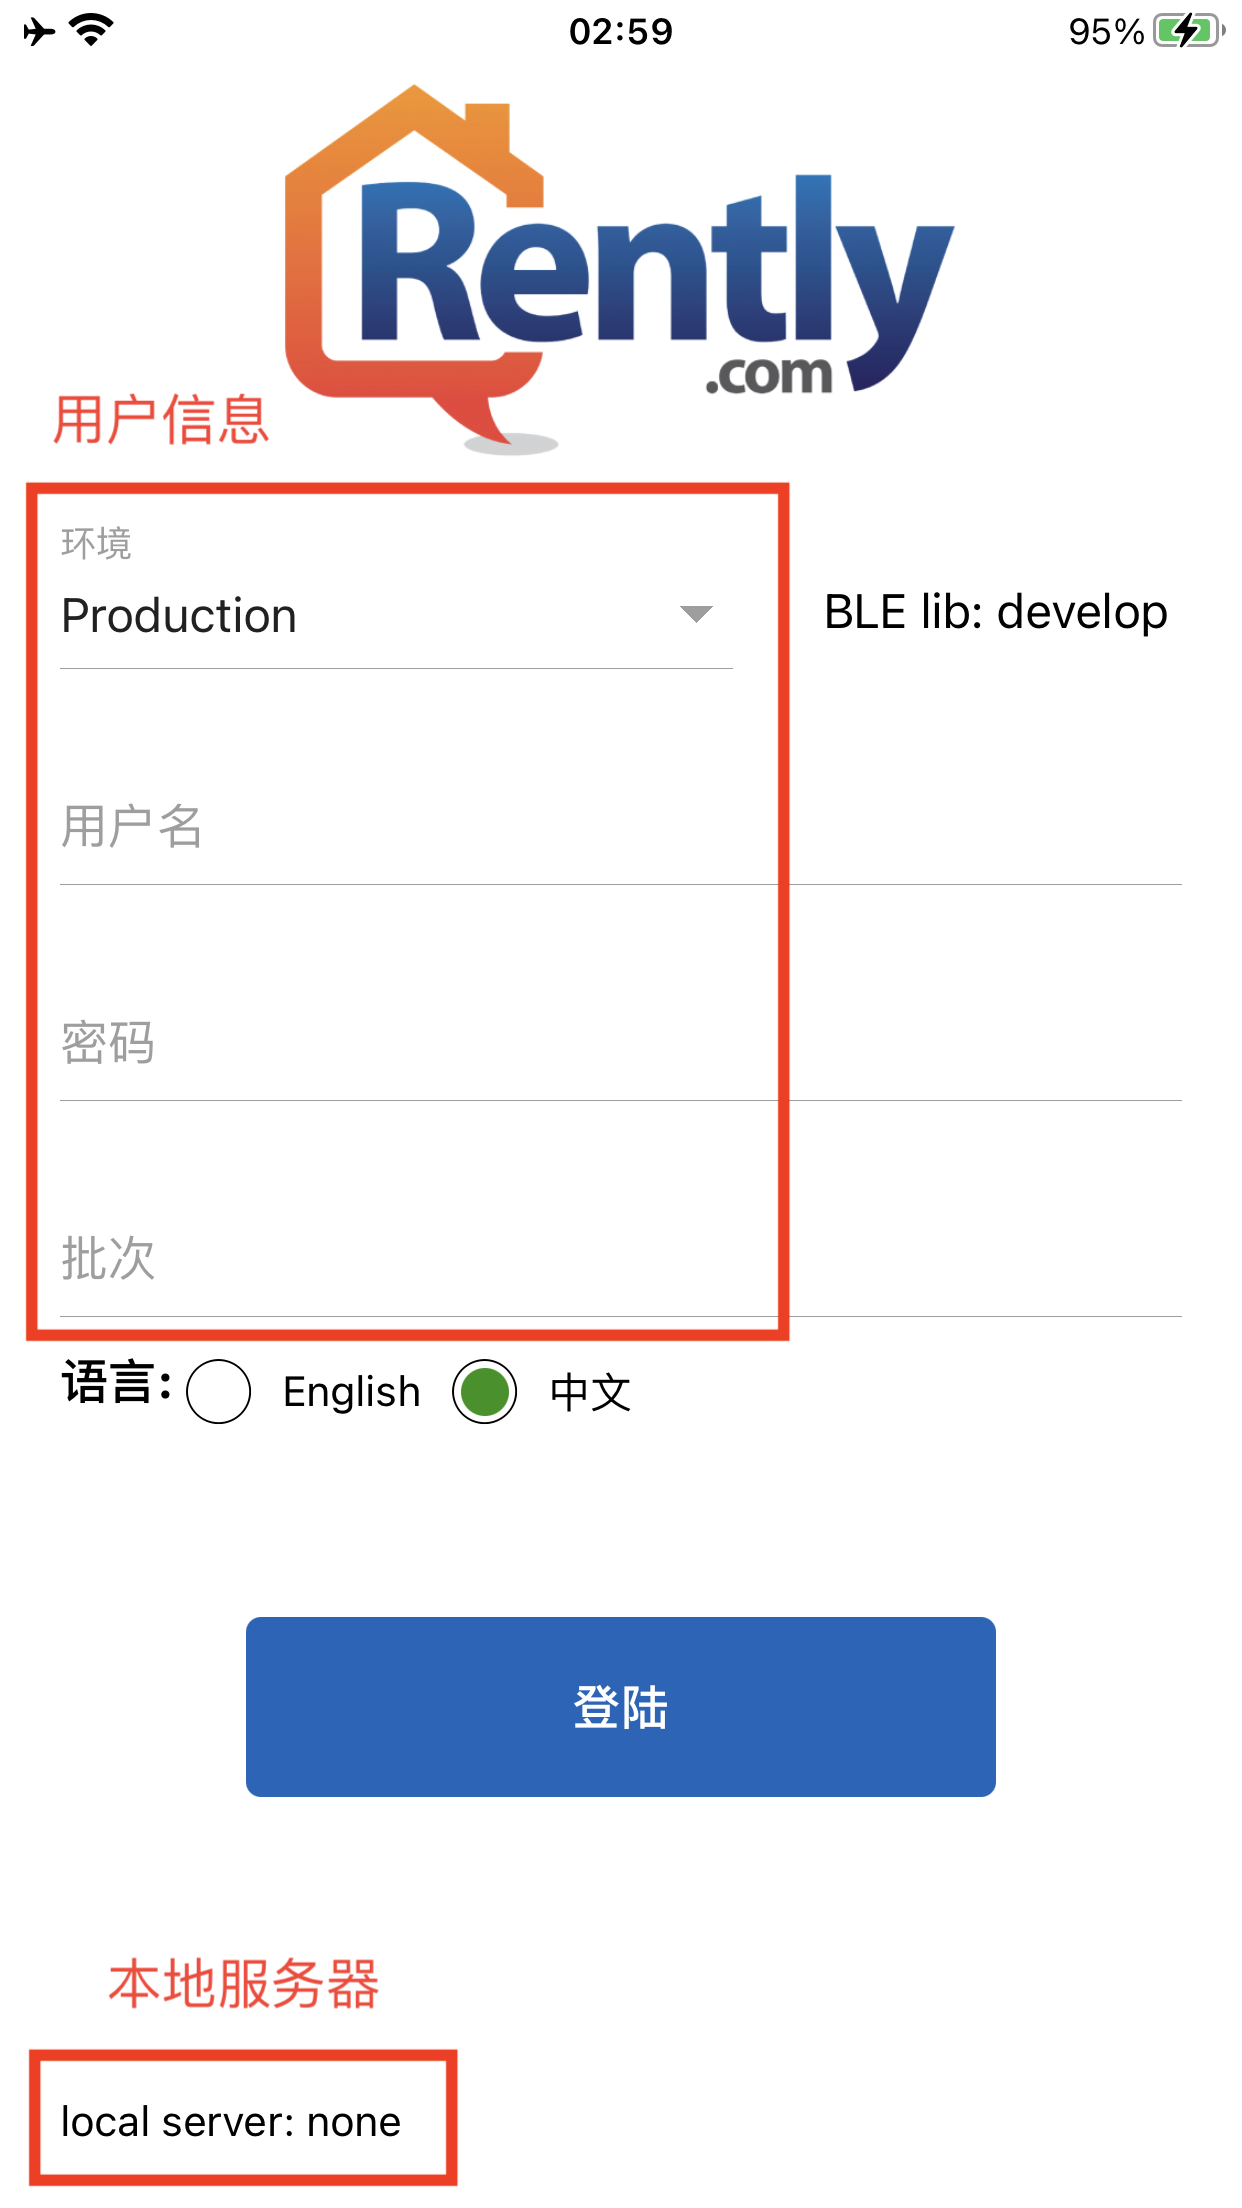
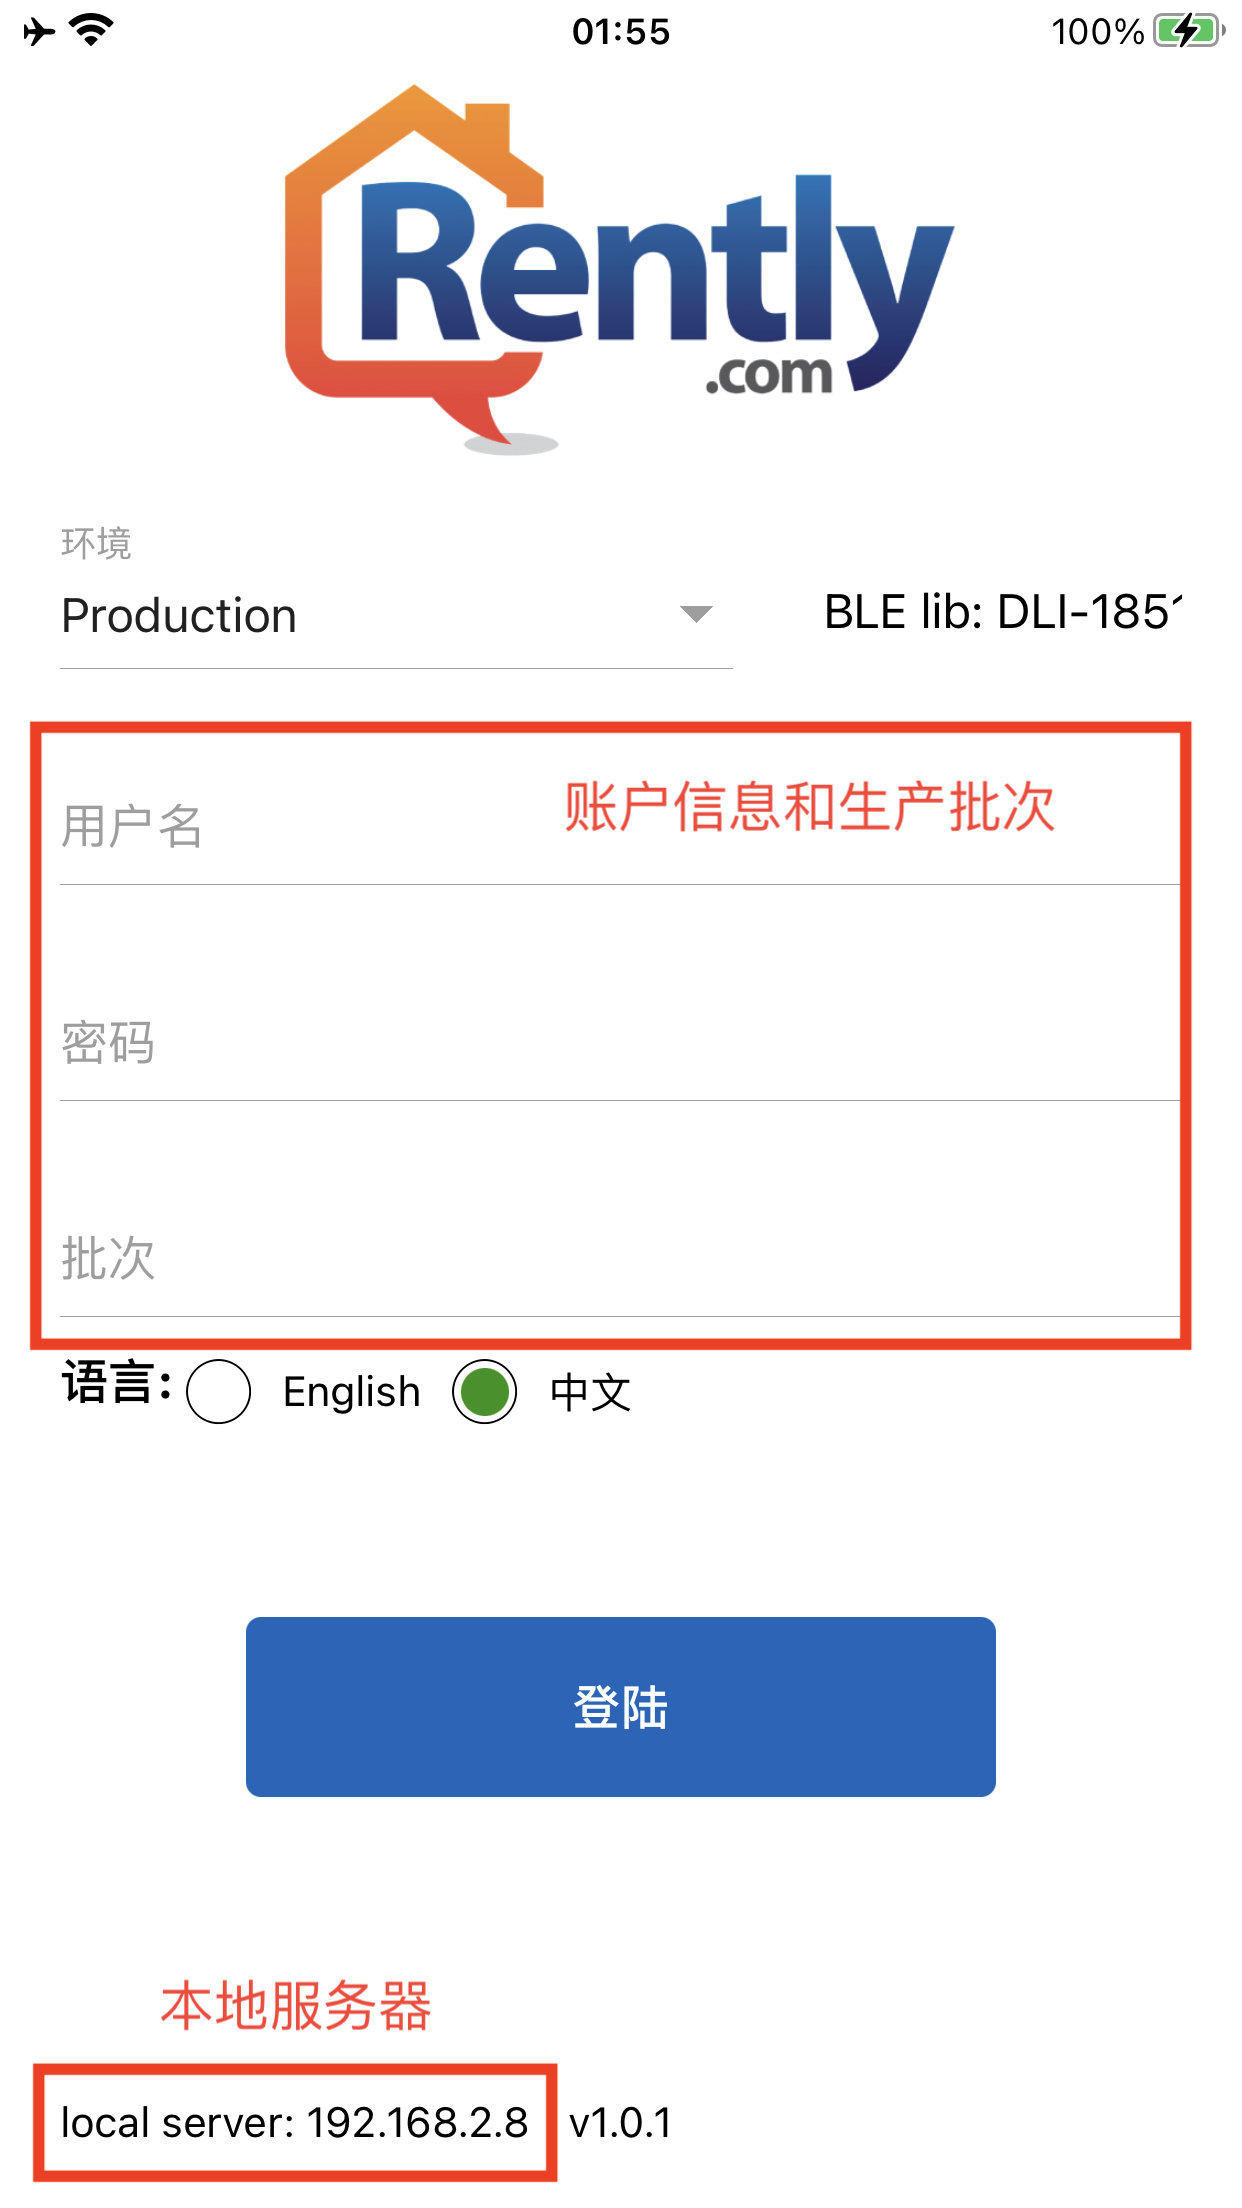
integrate and fix factory testing command update user instruction fix android text float fix mdns detection

diff --git a/app/store/sagas/testSaga.js b/app/store/sagas/testSaga.js
@@ -1,4 +1,3 @@
-import axios from 'axios';
 import { put, select } from 'redux-saga/effects';
 
 import {
@@ -37,7 +36,7 @@ import {
   clearTest,
 } from '../actions/testActions';
 import API from '../../services/API';
-import { delay, parseTimeStamp } from '../../utils';
+import { delay, parseTimeStamp, postToLocalServer } from '../../utils';
 import { strings } from '../../utils/i18n';
 import { SUCCESS } from '../actions/types';
 
@@ -46,9 +45,10 @@ import { SUCCESS } from '../actions/types';
 
 export function* verifyBroadcastInfoAsync({ payload: lockObj }) {
   const { lockMac, modelNum, hardwareVer, firmwareVer, rssi, battery } = lockObj;
-  const { criteria } = yield select(state => state.locks);
+  const { criteria, libraryObj } = yield select(state => state.locks);
   yield put(verifyBroadcastInfo({ lockMac, modelNum, hardwareVer, firmwareVer, rssi, battery }));
-
+  const blePlugin = libraryObj._lockController._blePlugin;
+  blePlugin.connectToDevice(blePlugin.getDeviceId(lockMac));
   const errors = [];
   if (criteria.model && modelNum.toString() !== criteria.model) errors.push(strings('Test.InvalidModel'));
   if (criteria.hardwareVer && hardwareVer.toString() !== criteria.hardwareVer) errors.push(strings('Test.InvalidHardwareVer'));
@@ -141,12 +141,11 @@ export function* testTouchKeyAsync() {
   yield put(testTouchKey());
   const { lockObj } = yield select(state => state.test);
   try {
-    // const { keys } = yield lockObj.sendFactoryTestingCommand(1);
-    // if (!keys.every(key => key === true)) {
-    //   const arr = keys.map((key, i) => key || i + 1).filter(key => key !== true);
-    //   throw new Error(`[${arr.toString()}] are not been touched`);
-    // }
-    yield lockObj.getLockTime();
+    const { keys } = yield lockObj.sendFactoryTestingCommand(1);
+    if (!keys.every(key => key === true)) {
+      const arr = keys.map((key, i) => key || i + 1).filter(key => key !== true);
+      throw new Error(`[${arr.toString()}] are not been touched`);
+    }
     yield put(testTouchKeySuccess());
   } catch (error) {
     yield put(testTouchKeyFailed(error));
@@ -155,16 +154,13 @@ export function* testTouchKeyAsync() {
 
 export function* testNfcChipAsync() {
   yield put(testNfcChip());
-  const { lockObj } = yield select(state => state.test);
+  const { test: { lockObj }, locks: { criteria } } = yield select();
   try {
-    // let { fobNumber } = yield lockObj.sendFactoryTestingCommand(2);
-    // fobNumber = parseInt(fobNumber, 16).toString().padStart(10, '0');
-    // if (!keys.every(key => key === true)) {
-    //   const arr = keys.map((key, i) => key || i + 1).filter(key => key !== true);
-    //   throw new Error(`[${arr.toString()}] are not been touched`);
-    // }
-    yield lockObj.getLockTime();
-    const fobNumber = '1234567890';
+    let { fobNumber } = yield lockObj.sendFactoryTestingCommand(2);
+    fobNumber = parseInt(fobNumber, 16).toString().padStart(10, '0');
+    if (criteria.fobNumber && fobNumber !== criteria.fobNumber) {
+      throw new Error(`FobNumber:${fobNumber} is not the preset one(${criteria.fobNumber})`);
+    }
     yield put(testNfcChipSuccess(fobNumber));
   } catch (error) {
     yield put(testNfcChipFailed(error));
@@ -175,7 +171,8 @@ export function* testAutoLockAsync() {
   yield put(testAutoLock());
   const { lockObj } = yield select(state => state.test);
   try {
-    yield lockObj.setAutoLockTime(1);
+    yield lockObj.sendFactoryTestingCommand(3);
+    yield lockObj.sendFactoryTestingCommand(0);
     yield put(testAutoLockSuccess());
   } catch (error) {
     yield put(testAutoLockFailed(error));
@@ -196,21 +193,6 @@ export function* testOfflineCodeAsync() {
   } catch (error) {
     yield put(testOfflineCodeFailed(error));
   }
-}
-
-const postToLocalServer = async (ip, serial_number) => {
-  let success = false;
-  const postRequest = async timeout => {
-    await axios.post('http://' + ip + ':6379/lock', { serial_number }, { timeout });
-    success = true;
-  }
-  const promise1 = delay(0).then(async () => await postRequest(11000));
-  const promise2 = delay(1000).then(async () => success || await postRequest(10000));
-  const promise3 = delay(2000).then(async () => success || await postRequest(9000));
-  const promise4 = delay(3000).then(async () => success || await postRequest(8000));
-  const promise5 = delay(4000).then(async () => success || await postRequest(7000));
-  const timeout = delay(10000).then(() => {throw new Error(strings('Test.uploadLocalServerTimeout'))});
-  await Promise.race([promise1, promise2, promise3, promise4, promise5, timeout]);
 }
 
 export function* uploadSerialNoAsync({ payload: serialNoStr }) {

diff --git a/app/utils/index.ts b/app/utils/index.ts
@@ -1,4 +1,6 @@
-import { Alert } from 'react-native';
+import { Alert, AlertButton, AlertOptions } from 'react-native';
+import axios from 'axios';
+import { strings } from './i18n';
 
 export const delay = (ms: number) => new Promise(res => setTimeout(res, ms));
 
@@ -14,18 +16,30 @@ export const parseTimeStamp = (timestamp: string) => {
   return new Date(year, mon, day, hour, min, sec);
 };
 
-export const alertIOS = (...args: any[]) => {
-  requestAnimationFrame(() => {
-    requestAnimationFrame(() => {
-      alert(...args);
-    });
-  });
+export const postToLocalServer = async (ip: string, serial_number: string) => {
+  let success = false;
+  const postRequest = async (timeout: number) => {
+    await axios.post('http://' + ip + ':6379/lock', { serial_number }, { timeout });
+    success = true;
+  };
+  const promise1 = delay(0).then(async () => await postRequest(11000));
+  const promise2 = delay(1000).then(async () => success || await postRequest(10000));
+  const promise3 = delay(2000).then(async () => success || await postRequest(9000));
+  const promise4 = delay(3000).then(async () => success || await postRequest(8000));
+  const promise5 = delay(4000).then(async () => success || await postRequest(7000));
+  const timeout = delay(10000).then(() => {throw new Error(strings('Test.uploadLocalServerTimeout'))});
+  await Promise.race([promise1, promise2, promise3, promise4, promise5, timeout]);
 };
 
-export const Alert_alertIOS = (...args: any[]) => {
+export const Alert_alertIOS = (
+  title: string,
+  message?: string,
+  buttons?: AlertButton[],
+  options?: AlertOptions,
+) => {
   requestAnimationFrame(() => {
     requestAnimationFrame(() => {
-      Alert.alert(...args);
+      Alert.alert(title, message, buttons, options);
     });
   });
 };

diff --git a/app/screens/Login/index.js b/app/screens/Login/index.js
@@ -76,7 +76,7 @@ class Login extends Component {
     this.zeroconf.on('resolved', service => {
       console.log('[Resolve] host:', service.addresses[0]);
       this.setState({
-        localServerIp: service.host === 'ryan-MBA.local.' ? service.addresses[0] : this.state.localServerIp
+        localServerIp: service.name === "Ryan's MacBook Air" ? service.addresses[0] : this.state.localServerIp
       })
     });
     this.zeroconf.on('error', err => {
@@ -239,9 +239,10 @@ class Login extends Component {
             </TouchableHighlight>
           </View>
         </ScrollView>
-        <View style={{ flexDirection: 'row' }}>
-          <Text testID="local-server" accessibilityLabel="local-server" style={{ padding: 10 }}>local server: {this.state.localServerIp || 'none'}</Text>
-          <Text testID="version" accessibilityLabel="version" style={{ padding: 10 }}>Version: {require('../../../package.json').version}</Text>
+        <View style={{ flexDirection: 'row', justifyContent: 'space-between' }}>
+          <Text testID="local-server" accessibilityLabel="local-server" style={{ flex: 1 }}>local server: {this.state.localServerIp || 'none'}</Text>
+          <Text testID="version" accessibilityLabel="version">v{require('../../../package.json').version}</Text>
+          <View style={{ flex: 1 }} />
         </View>
       </SafeAreaView>
     );

diff --git a/app/components/ListItem.js b/app/components/ListItem.js
@@ -20,7 +20,7 @@ import { requestTest } from '../store/actions/testActions';
 // import { clearLocks } from '../redux/locks';
 import { strings } from '../utils/i18n';
 import API from '../services/API';
-import { alertIOS, Alert_alertIOS } from '../utils';
+import { Alert_alertIOS } from '../utils';
 // import { startTest1 } from '../redux/test1';
 // import { startTest2 } from '../redux/test2';
 
@@ -82,7 +82,7 @@ class ListItem extends PureComponent {
       if (!lockObj.deviceAuthToken) await lockObj.refreshToken();
       await lockObj.setLockTime();
       await lockObj.resetLock();
-      this.props.onChangeLoading(false, () => alertIOS(strings('Home.resetSuccess')));
+      this.props.onChangeLoading(false, () => Alert_alertIOS(strings('Home.resetSuccess')));
     } catch (error) {
       const errorMessage =
         typeof error === 'object' ? error.message :

diff --git a/app/screens/TestModal/index.js b/app/screens/TestModal/index.js
@@ -121,7 +121,8 @@ const Step7 = () => {
       </View>
       {testNfcChipState === types.PENDING && <Text style={styles.instruction}>{strings('Test.nfcChipInstruction')}</Text>}
       {testNfcChipState === types.SUCCESS && <Text style={styles.result}>{strings('Test.fobNumber')}: {fobNumber}. {strings('Test.pass')}</Text>}
-      {testNfcChipState === types.FAILED && <Text style={styles.error}>{strings('Test.fobNumber')}: {fobNumber}. {strings('Test.wrongFobNumber')}</Text>}
+      {/*{testNfcChipState === types.FAILED && <Text style={styles.error}>{strings('Test.fobNumber')}: {fobNumber}. {strings('Test.wrongFobNumber')}</Text>}*/}
+      {testNfcChipState === types.FAILED && <Text style={styles.error}>{error.message}</Text>}
       {testNfcChipState === types.FAILED && <RetryInstruction no="7" />}
     </View>
   );

diff --git a/app/store/sagas/locksSaga.js b/app/store/sagas/locksSaga.js
@@ -2,7 +2,7 @@ import { put, select } from 'redux-saga/effects';
 
 import { getMaximumSerialNoFailed, getMaximumSerialNoSuccess, updateLocks } from '../actions/locksActions';
 import API from '../../services/API';
-
+//TODO add timeout of no battery lock
 export function* updateLocksAsync({ payload }) {
   let { locks: { touchedLocks, settingLocks, nonSettingLocks, libraryObj } } = yield select();
   const { lockMac, touch, settingMode, battery, rssi } = payload;

diff --git a/app/screens/Instruction/index.js b/app/screens/Instruction/index.js
@@ -10,7 +10,7 @@ const slides = [
   {
     key: 'one',
     title: '第一步 - 用户登录',
-    text: '1. 正确填写用户信息 \n2. 电脑打开本地服务器，local server显示IP地址\n3. 登录',
+    text: '1. 请正确填写账户信息和生产批次 \n2. 电脑打开本地服务器，local server显示其IP地址\n3. 点击"登录"',
     image: require('../../assets/1.png'),
     backgroundColor: '#59b2ab',
   },
